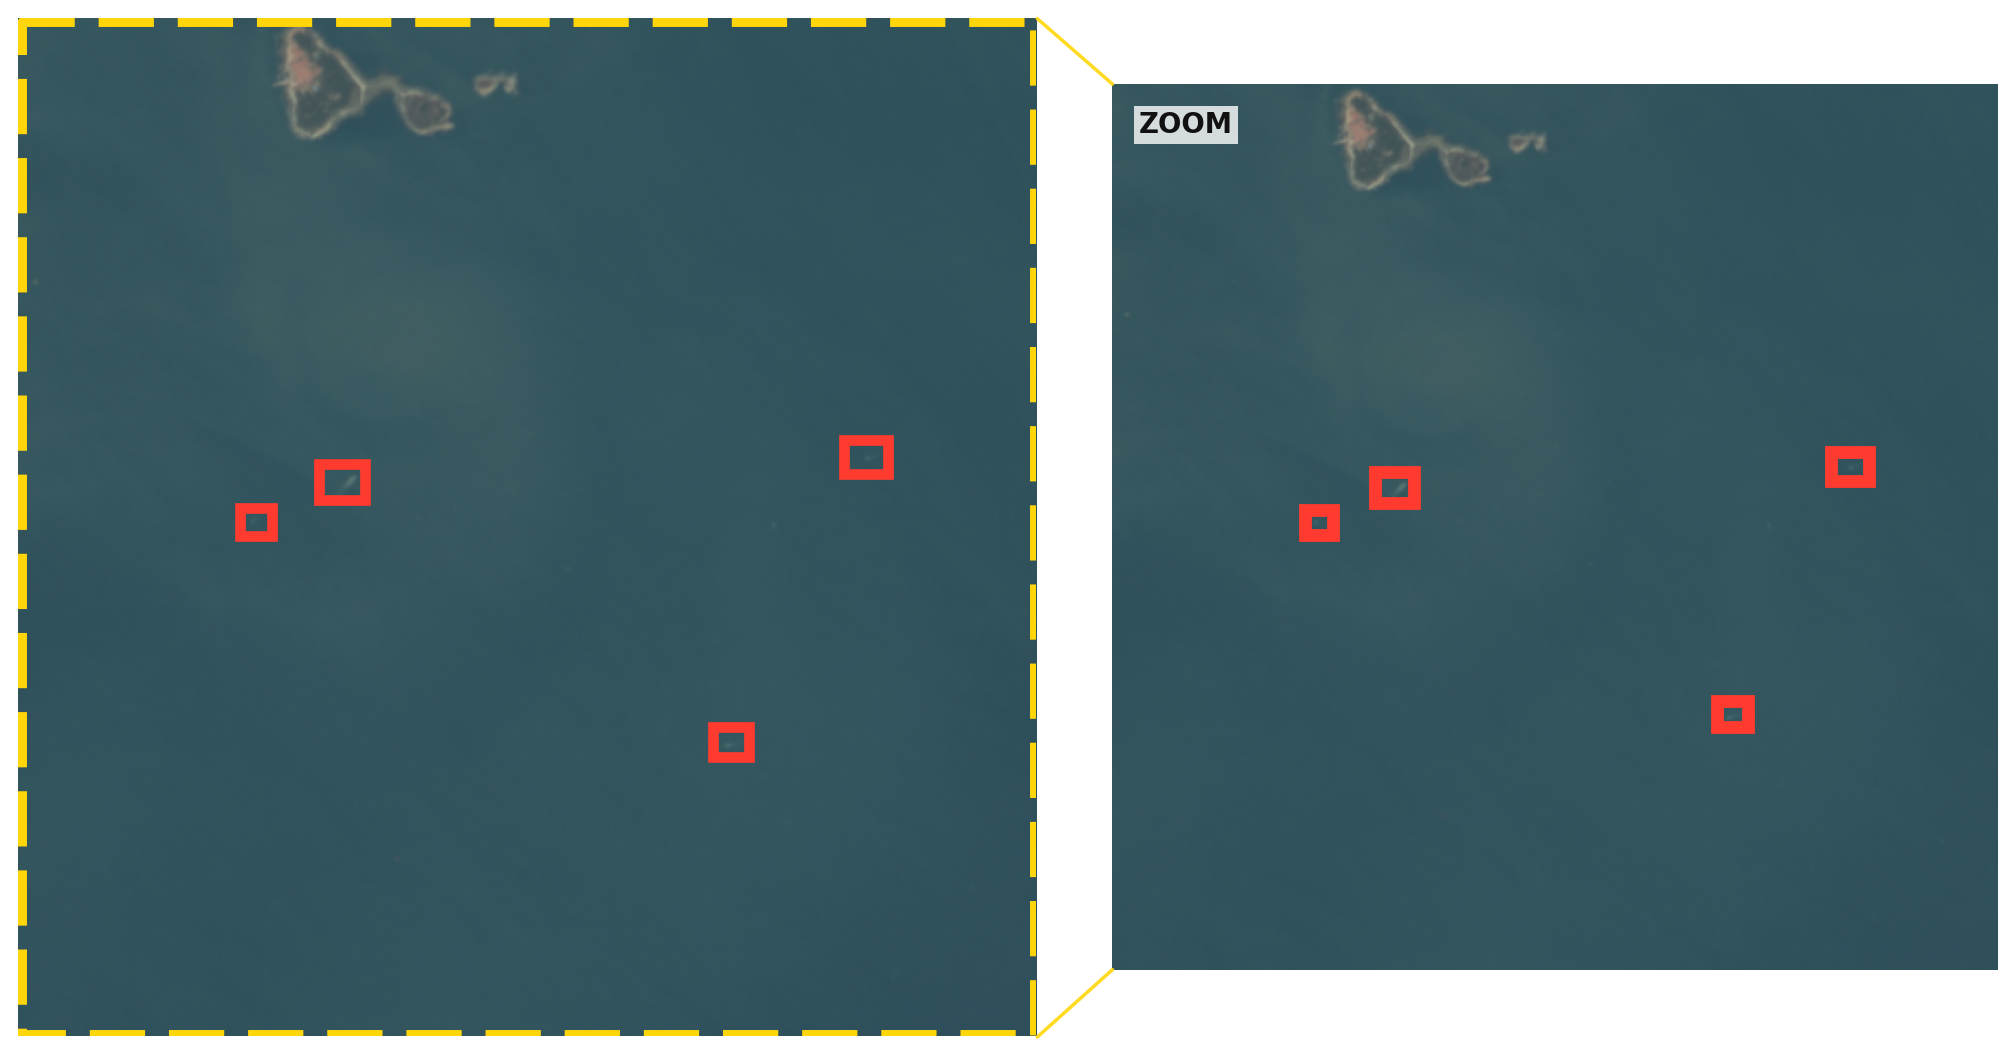
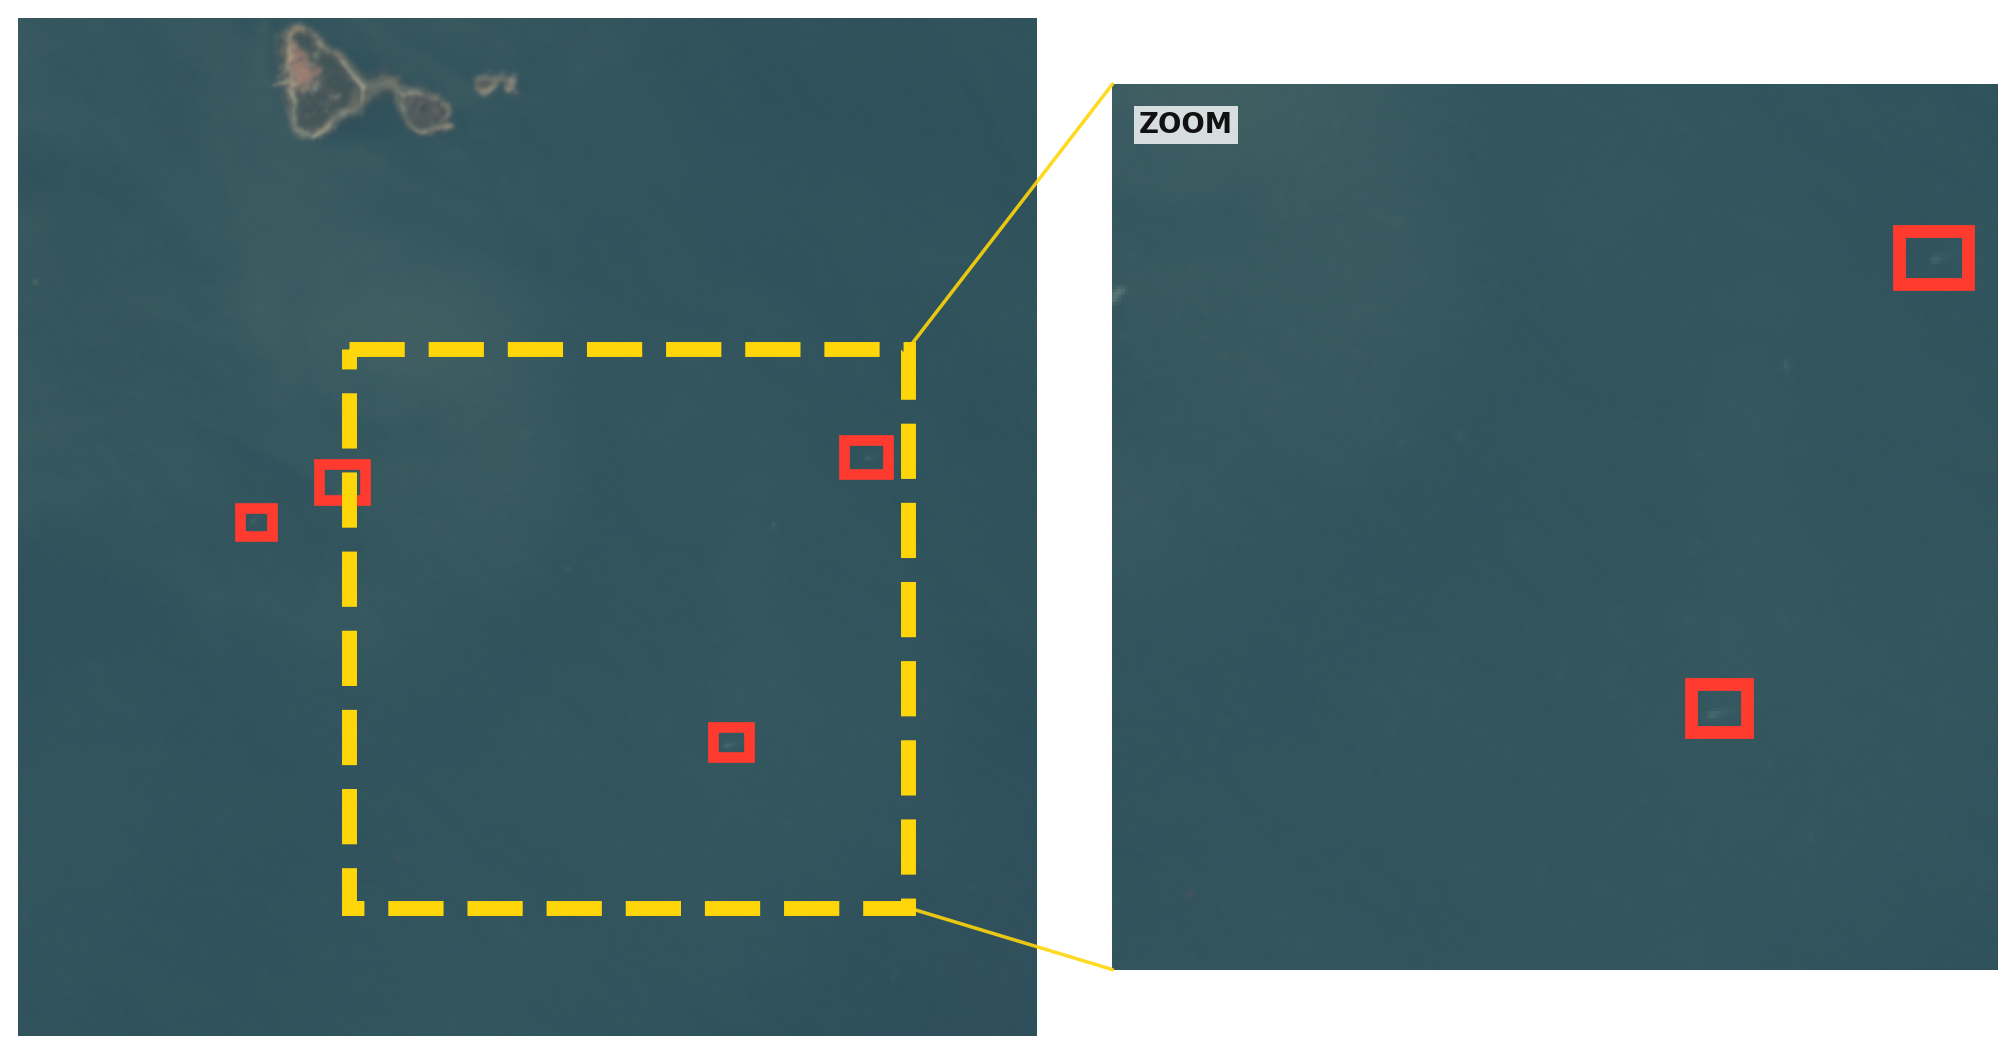
Use dense local regions for zoom examples

diff --git a/misc/plot_dataset_examples.py b/misc/plot_dataset_examples.py
@@ -131,28 +131,48 @@ def plot_sheet(items, dataset_label: str, class_name: str, output_path: Path) ->
     plt.close(fig)
 
 
-def zoom_bounds(boxes: list[tuple[float, float, float, float]], width: int, height: int) -> tuple[int, int, int, int]:
-    """Return a padded crop containing all annotated objects."""
-    x1 = min(box[0] for box in boxes)
-    y1 = min(box[1] for box in boxes)
-    x2 = max(box[2] for box in boxes)
-    y2 = max(box[3] for box in boxes)
-    padding = max(24.0, 0.75 * max(x2 - x1, y2 - y1))
-    return (
-        max(0, int(x1 - padding)),
-        max(0, int(y1 - padding)),
-        min(width, int(x2 + padding)),
-        min(height, int(y2 + padding)),
-    )
+def zoom_bounds(
+    boxes: list[tuple[float, float, float, float]],
+    width: int,
+    height: int,
+    crop_fraction: tuple[float, float],
+) -> tuple[int, int, int, int]:
+    """Find a fixed-size local window containing the densest GT cluster.
+
+    A fixed window prevents sparse objects spread over an image from making the
+    crop expand to the full frame. Candidate centers come from GT centers and a
+    small image grid; ties prefer the window containing larger objects.
+    """
+    crop_width = max(32, min(width - 1, int(width * crop_fraction[0])))
+    crop_height = max(32, min(height - 1, int(height * crop_fraction[1])))
+    max_left = width - crop_width
+    max_top = height - crop_height
+    centers = [(0.5 * (box[0] + box[2]), 0.5 * (box[1] + box[3])) for box in boxes]
+    candidates = centers + [
+        (width * x, height * y)
+        for x in (0.2, 0.4, 0.6, 0.8)
+        for y in (0.2, 0.4, 0.6, 0.8)
+    ]
+
+    best = None
+    for center_x, center_y in candidates:
+        left = int(max(0, min(max_left, center_x - crop_width / 2)))
+        top = int(max(0, min(max_top, center_y - crop_height / 2)))
+        right, bottom = left + crop_width, top + crop_height
+        inside = [box for box in boxes if left <= 0.5 * (box[0] + box[2]) <= right and top <= 0.5 * (box[1] + box[3]) <= bottom]
+        score = (len(inside), sum((box[2] - box[0]) * (box[3] - box[1]) for box in inside))
+        if best is None or score > best[0]:
+            best = (score, (left, top, right, bottom))
+    return best[1]
 
 
-def plot_zoom_one(item, output_path: Path) -> None:
+def plot_zoom_one(item, output_path: Path, crop_fraction: tuple[float, float]) -> None:
     """Plot the full image with a crop indication next to its enlarged view."""
     _, image_path, label_path = item
     image = Image.open(image_path).convert("RGB")
     width, height = image.size
     boxes = read_boxes(label_path, width, height)
-    left, top, right, bottom = zoom_bounds(boxes, width, height)
+    left, top, right, bottom = zoom_bounds(boxes, width, height, crop_fraction)
     crop = image.crop((left, top, right, bottom))
 
     fig, (ax_original, ax_zoom) = plt.subplots(
@@ -172,7 +192,9 @@ def plot_zoom_one(item, output_path: Path) -> None:
 
     ax_zoom.imshow(crop)
     for x1, y1, x2, y2 in boxes:
-        ax_zoom.add_patch(Rectangle((x1 - left, y1 - top), x2 - x1, y2 - y1, fill=False, edgecolor=box_color, linewidth=line_width * 1.2))
+        center_x, center_y = 0.5 * (x1 + x2), 0.5 * (y1 + y2)
+        if left <= center_x <= right and top <= center_y <= bottom:
+            ax_zoom.add_patch(Rectangle((x1 - left, y1 - top), x2 - x1, y2 - y1, fill=False, edgecolor=box_color, linewidth=line_width * 1.2))
     ax_zoom.text(0.03, 0.97, "ZOOM", transform=ax_zoom.transAxes, va="top", ha="left", color="#111111", fontsize=11, weight="bold", bbox={"facecolor": "white", "alpha": 0.8, "edgecolor": "none", "pad": 2})
     ax_zoom.axis("off")
 
@@ -204,8 +226,9 @@ def main() -> None:
         plot_sheet(items, config["label"], config["class_name"], dataset_dir / "contact_sheet.png")
         if name in {"levir_ship", "tiny_person"}:
             zoom_dir = args.output_dir / "zoomed_examples" / name
+            crop_fraction = (0.55, 0.55) if name == "levir_ship" else (0.38, 0.48)
             for index, item in enumerate(items, start=1):
-                plot_zoom_one(item, zoom_dir / f"example_{index}.png")
+                plot_zoom_one(item, zoom_dir / f"example_{index}.png", crop_fraction)
         print(f"{name}: " + ", ".join(f"{count} boxes ({path.name})" for count, path, _ in items))
         print(f"  output: {dataset_dir}")
 

diff --git a/docs/reports/dataset_examples/README.md b/docs/reports/dataset_examples/README.md
@@ -13,7 +13,7 @@ For LEVIR-Ship and TinyPerson, original-plus-zoom figures are also available und
 - `zoomed_examples/levir_ship/`
 - `zoomed_examples/tiny_person/`
 
-These figures show the full image with red ground-truth boxes, a yellow dashed crop region, connector lines, and an enlarged crop with the red boxes repeated.
+These figures show the full image with red ground-truth boxes, a yellow dashed crop region, connector lines, and an enlarged crop with the red boxes repeated. The crop is a fixed local window selected to contain the densest nearby group of ground-truth objects, rather than the union of all annotations in the image.
 
 Recreate them from the repository root with:
 
